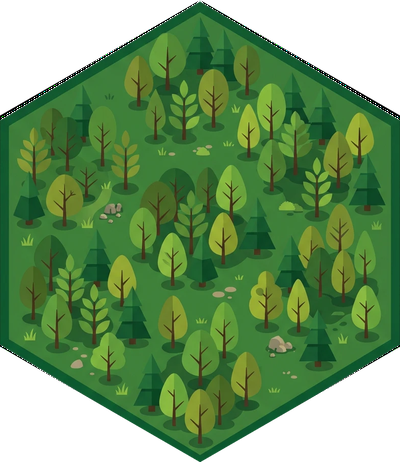
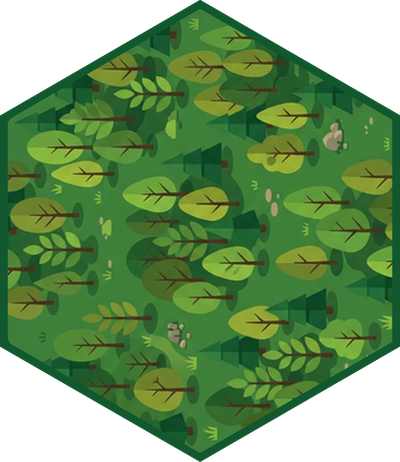
Rays Realm: faster ships, tougher Rangers, Mercenaries outside supply, upright forest and crags
- Ships move 4 (was 3)
- Elven Ranger health 8 (was 7)
- Mercenaries no longer count toward supply and can be hired at the cap (still 3 at a time)
- Forest and crags tiles re-cut so the scenery stands upright on the map

diff --git a/rays-realm/index.html b/rays-realm/index.html
@@ -300,13 +300,13 @@
     <li><b>Omens:</b> from round 4 on, the sky or the land sometimes turns on everyone. Each omen is announced one round ahead (see the Omens panel). Fog Bank: everyone sees 1 hex less. Thunderstorm: ships cannot sail and ranged units lose 1 range. Hard Frost: rivers freeze for 2–3 rounds so units can walk across (ships are stuck), then the ice cracks: anyone still on it takes 4 damage and is thrown onto the nearest bank. Bountiful Harvest: mines pay double. Plague: the largest army loses 2 health on each unit that can move. Frost Giants Spotted: huge Frost Giants appear at random places, march on the nearest army and attack anyone, then retreat to the mountains after 6 rounds; slay one for 15 gold.</li>
     <li>Each unit has <b>movement points</b> per turn and can spend them in several steps until you press End Turn. Attacking ends that unit's turn. Catapults can't fire after moving.</li>
     <li><b>Gold mines:</b> end a move on one to seize it. Each held mine pays +2 gold at the start of your turn.</li>
-    <li><b>Supply (army size):</b> your army can only field as many units as your land can feed: 6, plus 4 for each keep, 1 for each gold mine and 2 for each fort you hold. Every unit counts, including passengers, archer towers and mercenaries. The ⚔ counter shows units fielded / supply. At the cap you can't recruit until you take more land or lose units, so grabbing mines and keeps (and razing the enemy's) matters more than a big pile of gold.</li>
+    <li><b>Supply (army size):</b> your army can only field as many units as your land can feed: 6, plus 4 for each keep, 1 for each gold mine and 2 for each fort you hold. Every unit counts, including passengers and archer towers, but Mercenaries don't. The ⚔ counter shows units fielded / supply. At the cap you can still hire Mercenaries, but can't recruit anyone else until you take more land or lose units, so grabbing mines and keeps (and razing the enemy's) matters more than a big pile of gold.</li>
     <li><b>Zone of control:</b> a foot or mounted unit that steps next to an enemy it can see must stop there for the turn. Hold a line and the enemy can't just walk past it. Flyers, ships and Scouts ignore zones of control, and a unit that starts its turn engaged may still step away.</li>
     <li><b>Income:</b> every army earns 2 gold a turn no matter what, plus 2 for each keep and 2 for each mine it holds.</li>
     <li><b>Barbarians:</b> skull-banner towers hide in undiscovered land. Their riders and archers only defend their home, but they hit hard. Destroy a tower for a 10 gold bounty.</li>
     <li><b>Recruit</b> from the sidebar: new units appear near your keep and rest until next turn. Each keep you hold lets you recruit up to 4 units per turn, and each fort can also recruit two more units beside it. Ships spawn on the river.</li>
-    <li><b>Mercenaries</b> cost 3 gold and match a Foot Soldier. They are hired on the spot: place one on any hex you can see, not just near a keep. A contract lasts 5 rounds (a badge shows the rounds left), or until he is killed. Three at a time at most, and they don't use up your keep recruits.</li>
-    <li><b>Ships</b> are unarmed transports that carry 2 land units. Walk a unit onto a ship to board, sail up to 3 hexes, then select the ship and press Unload to land passengers on any adjacent shore, all in the same turn. Boarding uses up the unit's walking, and landing ends its turn (no attack after landing).</li>
+    <li><b>Mercenaries</b> cost 3 gold and match a Foot Soldier. They are hired on the spot: place one on any hex you can see, not just near a keep. A contract lasts 5 rounds (a badge shows the rounds left), or until he is killed. Three at a time at most. They don't use up your keep recruits or count towards your supply.</li>
+    <li><b>Ships</b> are unarmed transports that carry 2 land units. Walk a unit onto a ship to board, sail up to 4 hexes, then select the ship and press Unload to land passengers on any adjacent shore, all in the same turn. Boarding uses up the unit's walking, and landing ends its turn (no attack after landing).</li>
     <li>Forests: +1 defence, cost 2 to enter (free for the Emerald Court). Hills: +1 defence and +1 sight for a foot unit standing on them (flyers get neither). Crags and river block foot soldiers; cross at the fords.</li>
     <li><b>Forts:</b> pay 25 gold to build one on any grass hex near your units. It gives +2 defence to your unit standing there, +2 supply, and lets you recruit two units per turn on adjacent hexes (even a ship, if water is adjacent). It collapses if that unit is slain, and is razed if an enemy steps on it. Keeps give +2 and recruit without limit; each fort recruits two units per turn.</li>
     <li><b>Scriptorium (long games):</b> raise one on any open hex you can see (30 gold) to research technologies: armour, whetstones, dirigibles and a secret of your own army. Each discovery is paid for up front and lands at a random time, and a fire can destroy the work. If an enemy ends a move on your Scriptorium it is captured: you lose your newest discovery and the capturer learns one.</li>
@@ -407,8 +407,8 @@ const TYPES = {
             desc:'Light rider with sharp eyes: sees 4 hexes instead of 3, and slips past enemy zones of control. Weak in a fight, so scout ahead and stay out of trouble.'},
   catapult:{name:'Catapult', short:'Catapult', cost:8, hp:8, atk:8, def:0, mv:2, rng:[2,3], cls:'ground', stat:true,
             desc:'Devastating siege fire at range 2–3, but it cannot move and fire in the same turn.'},
-  ship:    {name:'Ship', short:'Ship', cost:6, hp:10, atk:0, def:1, mv:3, rng:[0,0], cls:'water', noattack:true, cap:2,
-            desc:'Unarmed. Carries 2 land units. Board, sail 3 hexes and land on an adjacent shore all in one turn; landing ends that unit\'s turn.'},
+  ship:    {name:'Ship', short:'Ship', cost:6, hp:10, atk:0, def:1, mv:4, rng:[0,0], cls:'water', noattack:true, cap:2,
+            desc:'Unarmed. Carries 2 land units. Board, sail 4 hexes and land on an adjacent shore all in one turn; landing ends that unit\'s turn.'},
   wizard:  {name:'Wizard', short:'Wizard', cost:8, hp:8, atk:6, def:0, mv:2, rng:[1,3], cls:'ground', pierce:true,
             desc:'Arcane bolt ignores armour and terrain. Range 1–3. Fragile. Spends mana on Heal, Flash and Chain Lightning instead of attacking, and mends 2 health a turn beside a mana crystal mine.'},
   dragon:  {name:'Dragon', short:'Dragon', cost:18, hp:22, atk:7, def:2, mv:5, rng:[1,2], cls:'fly',
@@ -422,7 +422,7 @@ const TYPES = {
             desc:'The many-headed terror of the Dark Host, which has no Dragons. Flies over anything and its heads strike up to 2 hexes away. Hits harder than any dragon: 9 attack.'},
   valkyrie:{name:'Valkyrie', short:'Valkyrie', cost:8, hp:9, atk:6, def:2, mv:3, rng:[1,1], cls:'fly', only:2,
             desc:'A winged shield-maiden who flies over rivers, forests and crags. Fast and hard-hitting.'},
-  ranger:  {name:'Elven Ranger', short:'Ranger', cost:6, hp:7, atk:5, def:0, mv:2, rng:[2,4], cls:'ground', vision:4, only:3,
+  ranger:  {name:'Elven Ranger', short:'Ranger', cost:6, hp:8, atk:5, def:0, mv:2, rng:[2,4], cls:'ground', vision:4, only:3,
             desc:'Elite Emerald Court sharpshooter. Longbow reaches 2–4 hexes and sees 4 hexes, but cannot fire at adjacent foes.'}
 };
 const SHOP_ORDER = Object.keys(TYPES).filter(k=>!TYPES[k].barb).sort((a,b)=>TYPES[a].cost-TYPES[b].cost);   // recruit menu, cheapest first
@@ -478,11 +478,12 @@ const KEEP_RECRUITS = 4;   // units an army may recruit per turn for each keep i
 let recruitsUsed = [0,0,0,0];
 const recruitQuota = t => KEEP_RECRUITS*keepsOf(t);
 const recruitsLeft = t => Math.max(0,recruitQuota(t)-recruitsUsed[t]);
-// Supply: an army can only field as many units as its land can feed. Every unit counts (passengers, towers and mercenaries too).
+// Supply: an army can only field as many units as its land can feed. Every unit counts (passengers and towers too) except Mercenaries, who have their own limit (MERC_MAX).
 const SUPPLY_BASE = 6, SUPPLY_PER_KEEP = 4, SUPPLY_PER_MINE = 1, SUPPLY_PER_FORT = 2;
 const fortsOf = t => { let n=0; for(const tm of towers.values()) if(tm===t) n++; return n; };
 const supplyCap = t => SUPPLY_BASE + SUPPLY_PER_KEEP*keepsOf(t) + SUPPLY_PER_MINE*minesOf(t) + SUPPLY_PER_FORT*fortsOf(t);
-const supplyUsed = t => units.reduce((n,u)=>n+(u.team===t?1:0)+u.cargo.filter(c=>c.team===t).length,0);
+const usesSupply = (u,t) => u.team===t&&u.key!=='merc';
+const supplyUsed = t => units.reduce((n,u)=>n+(usesSupply(u,t)?1:0)+u.cargo.filter(c=>usesSupply(c,t)).length,0);
 const supplyLeft = t => Math.max(0,supplyCap(t)-supplyUsed(t));
 
 
@@ -1148,7 +1149,7 @@ function counterInfo(a,d,dmgToD){
 // economy
 const mercCount = team => [...units,...units.flatMap(u=>u.cargo)].filter(u=>u.team===team&&u.key==='merc').length;
 function spawnTiles(team,type){
-  if(team<4&&supplyLeft(team)<=0) return [];   // army at its supply cap: take more land (keeps, mines, forts) to field more
+  if(team<4&&type!=='merc'&&supplyLeft(team)<=0) return [];   // army at its supply cap: take more land (keeps, mines, forts) to field more
   if(type==='merc'){   // hired locally: any free, visible hex you could walk onto (not a keep or mine)
     if(mercCount(team)>=MERC_MAX) return [];
     const out=[]; for(let r=0;r<ROWS;r++) for(let c=0;c<COLS;c++){ if(unitAt(c,r)||tileCost('ground',c,r)==null) continue; const ch=tileCh(c,r); if(ch==='K'||ch==='G') continue; if(team===ME&&!isVis(c,r)) continue; out.push({c,r,tower:null}); }

diff --git a/CLAUDE.md b/CLAUDE.md
@@ -37,4 +37,7 @@ Special Olympics and United Way can be named as clients. Do **not** name Electri
 - Ray works on two computers. At the start of a session, `git pull` before touching anything; push when done.
 
 ## Current state / where we left off
+- Last work (Nov 25): Ray's Realm — ships move 4, Elven Ranger 8 health, Mercenaries no longer count toward the supply cap (still 3 at a time; the AI never hires them), forest and crags tiles turned upright. Nothing half-done.
+- Terrain art gotcha: `t_*` tiles are saved as pointy-topped hexes and the game draws them turned 90° clockwise, so scenery must lie on its side (top pointing left) in the file. Gold/crystal mine, keep and fort tiles are drawn as saved.
+- Pinned for later: military "Leader" units (Ray wants to think about it first).
 - Last work (Nov 24): Ray's Realm — Scriptorium and research, mana crystal mines, Wizard spells, Dirigible, 3D gold mine, Hydra/hills/Paladin tweaks.
